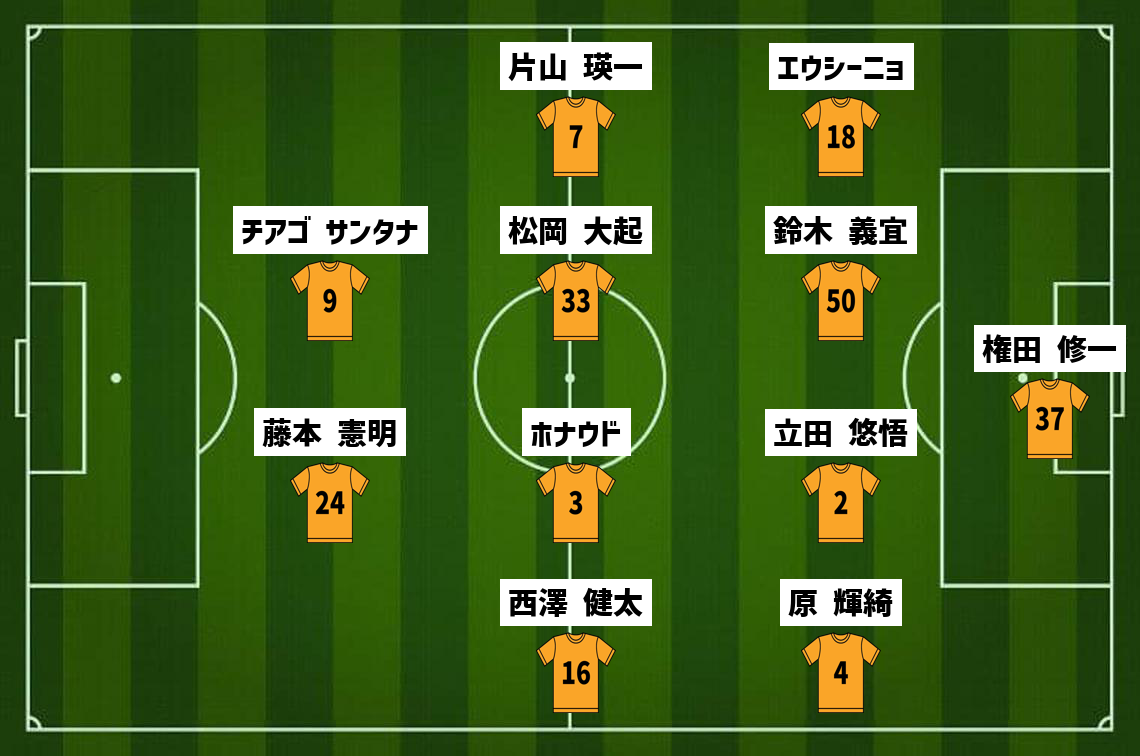
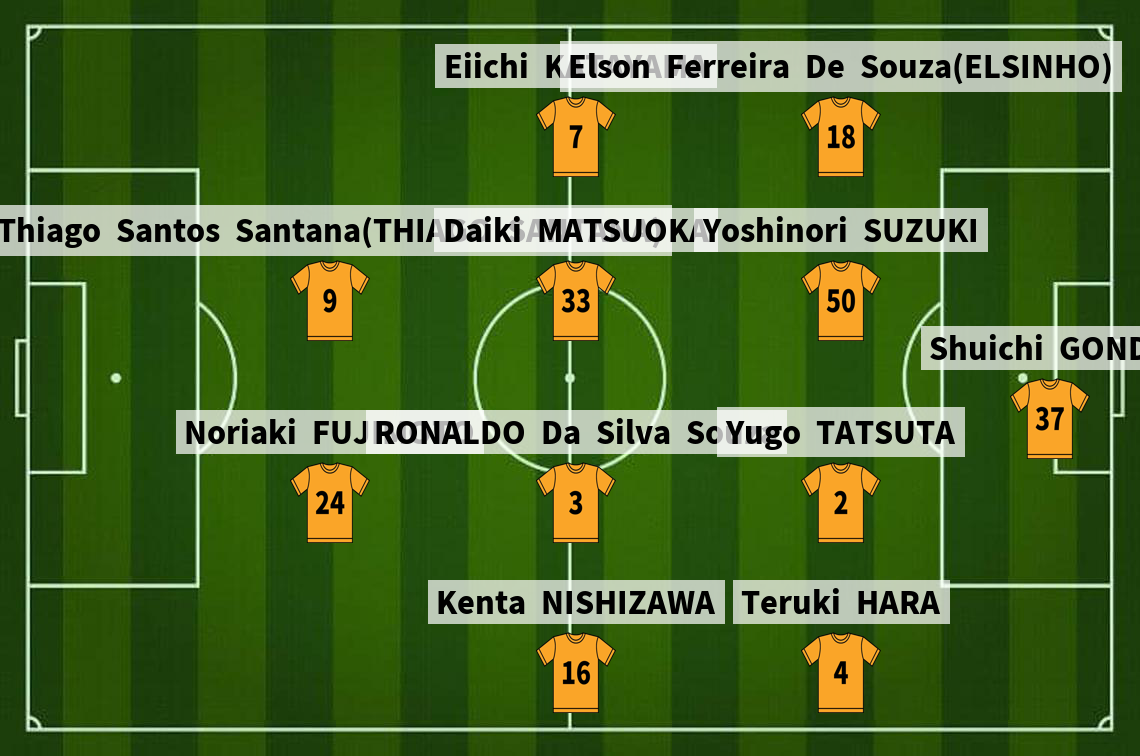
update:選手名の背景透過させた

diff --git a/jleague-api/controller/generateImageController.py b/jleague-api/controller/generateImageController.py
@@ -79,12 +79,11 @@ mock_position_position_data = {
     }
 }
 
-#TODO:パスは定数化する
 def generate_image(image_info:dict = mock_image_info, position_data:dict = mock_position_data):
-    #先に画像色をチームカラーに置換
     #TODO:DBを見る処理はmodelにかくべき
     color_list = Team.query.filter_by(id=image_info["team_id"]).first().color.split(",")
     team_color = (int(color_list[0]), int(color_list[1]), int(color_list[2]))
+    #先に画像色をチームカラーに置換
     put_uniform_color(team_color)
 
     #背番号を全選手分いれる
@@ -109,6 +108,7 @@ def generate_image(image_info:dict = mock_image_info, position_data:dict = mock_
     #TODO:完成したスタメン画像返す https://takake-blog.com/python-flask/#2
     return "success"
 
+#TODO:もっと分割できるかも
 def generate_formation_image(formation, team_id, position_name, number):
     """
     スタメン画像に1選手のユニ画像・名前を入れる
@@ -127,29 +127,31 @@ def generate_formation_image(formation, team_id, position_name, number):
 
     #各ポジションのピッチ画像上の座標（左上がこの座標にあう）https://note.nkmk.me/python-pillow-paste/
     player_image_position = mock_position_position_data[formation][position_name]
-    #選手名を入れる座標は、X座標はユニ画像サイズの半分右に、Y座標は30上にそれぞれユニ画像の座標からずらす
-    player_name_position = (player_image_position[0]+HALF_PLAYER_IMAGE_SIZE, player_image_position[1]-OFFSET_PLAYERNAME_Y_POSITION)
 
     #ユニ画像を小さくリサイズして取得
     uniform_image = Image.open(get_resolve_path(f"{PLAYER_UNIFORM_FOLDER_PATH}/uniform_{number}.png")).resize((PLAYER_IMAGE_WIDTH,PLAYER_IMAGE_HEIGHT))
     #背景のピッチ画像を取得
-    formation_image = Image.open(get_resolve_path(FORMATION_IMAGE_PATH))
+    formation_image = Image.open(get_resolve_path(FORMATION_IMAGE_PATH)).convert("RGBA")
 
     #ユニ画像の透過を効かせるため、スタメン画像と同じサイズの透明な画像を用意して載せる https://qiita.com/iso12800jp/items/a74852ebfd3041065aeb
     clear_back_img_for_uniform = Image.new("RGBA", formation_image.size, (255, 255, 255, 0))
     clear_back_img_for_uniform.paste(uniform_image, player_image_position)
 
-    #alpha_compositeは両方RGBAじゃないとだめなのでフォーメーション画像もRGBAにする
-    clear_back_img_for_formation = Image.new("RGBA", formation_image.size, (255, 255, 255, 0))
-    clear_back_img_for_formation.paste(formation_image)
+    #ユニ画像合成
+    formation_image = Image.alpha_composite(formation_image, clear_back_img_for_uniform)
 
-    formation_image = Image.alpha_composite(clear_back_img_for_formation, clear_back_img_for_uniform)
-
-    #選手名描画（背景付き）
-    draw = ImageDraw.Draw(formation_image)
+    #選手名の背景描画
+    #透過したいので、透過用の背景を作る https://teratail.com/questions/132373
+    clear_back_img_for_name_back = Image.new("RGBA", formation_image.size, (255, 255, 255, 0))
+    #透過背景に対してdraw
+    draw = ImageDraw.Draw(clear_back_img_for_name_back)
     font = ImageFont.truetype(get_resolve_path(FONT_PATH), PLAYER_NAME_FONT_SIZE)
 
-    #選手名に背景色をつける
+    #背景をつける範囲を取得（名前の座標は中央なので背景エリアの左上、右下の座標をマージン込みで算出）
+    #TODO:名前が一定以上長くなった場合2列にしたほうがいい
+    #選手名を入れる座標取得（X座標はユニ画像サイズの半分右に、Y座標は30上にそれぞれユニ画像の座標からずらす）
+    player_name_position = (player_image_position[0]+HALF_PLAYER_IMAGE_SIZE, player_image_position[1]-OFFSET_PLAYERNAME_Y_POSITION)
+
     player_name_area = draw.textsize(player_name, font)
     name_x = player_name_position[0]
     name_y = player_name_position[1]
@@ -157,12 +159,16 @@ def generate_formation_image(formation, team_id, position_name, number):
     name_x_offset = player_name_area[0]/2+8
     name_y_offset = player_name_area[1]/2+8
     player_name_backgroud_position = (name_x-name_x_offset, name_y-name_y_offset, name_x+name_x_offset, name_y+name_y_offset)
-    #とりあえず背景は白塗り
-    draw.rectangle(player_name_backgroud_position, fill=(255,255,255))
 
-    #選手名描画
+    #背景は半透明な白
+    draw.rectangle(player_name_backgroud_position, fill=(255,255,255,180))
+    #選手名背景合成
+    formation_image = Image.alpha_composite(formation_image, clear_back_img_for_name_back)
+
+    #選手名描画。こちらは元の画像に描画する（既に背景が入ってる状態）
+    draw = ImageDraw.Draw(formation_image)
+    #文字描画
     draw.text(player_name_position, player_name, font=font, fill="black", align="center", anchor="mm")
-
     #編集し終わったピッチ画像を保存
     formation_image.save(get_resolve_path(FORMATION_IMAGE_PATH))
 
@@ -192,12 +198,12 @@ def put_uniform_color(team_color:tuple):
     """
     uniform_img = Image.open(get_resolve_path(DEFAULT_UNIFORM_IMAGE_PATH))
     default_color = (255,255,255)
+    #aないと怒られる
     r, g, b, a = uniform_img.split()
 
     _r = r.point(lambda _: 1 if _ == default_color[0] else 0, mode="1")
     _g = g.point(lambda _: 1 if _ == default_color[1] else 0, mode="1")
     _b = b.point(lambda _: 1 if _ == default_color[2] else 0, mode="1")
-    _a = a.point(lambda _: 1 if _ == 0 else 0, mode="1")
 
     mask = ImageChops.logical_and(_r, _g)
     mask = ImageChops.logical_and(mask, _b)
